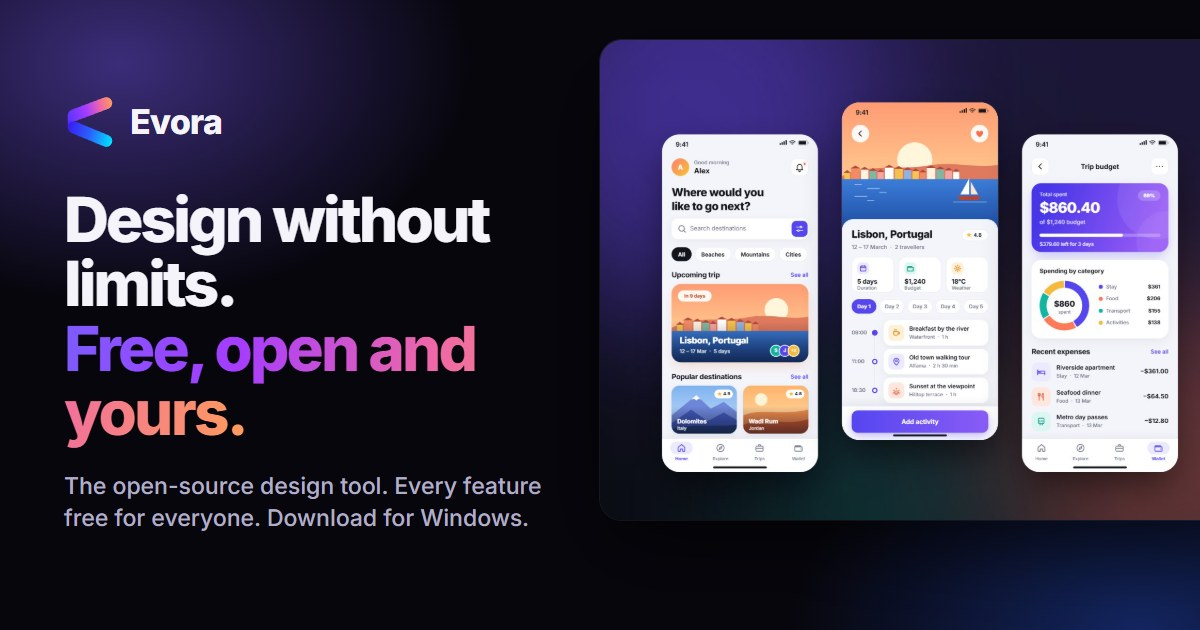
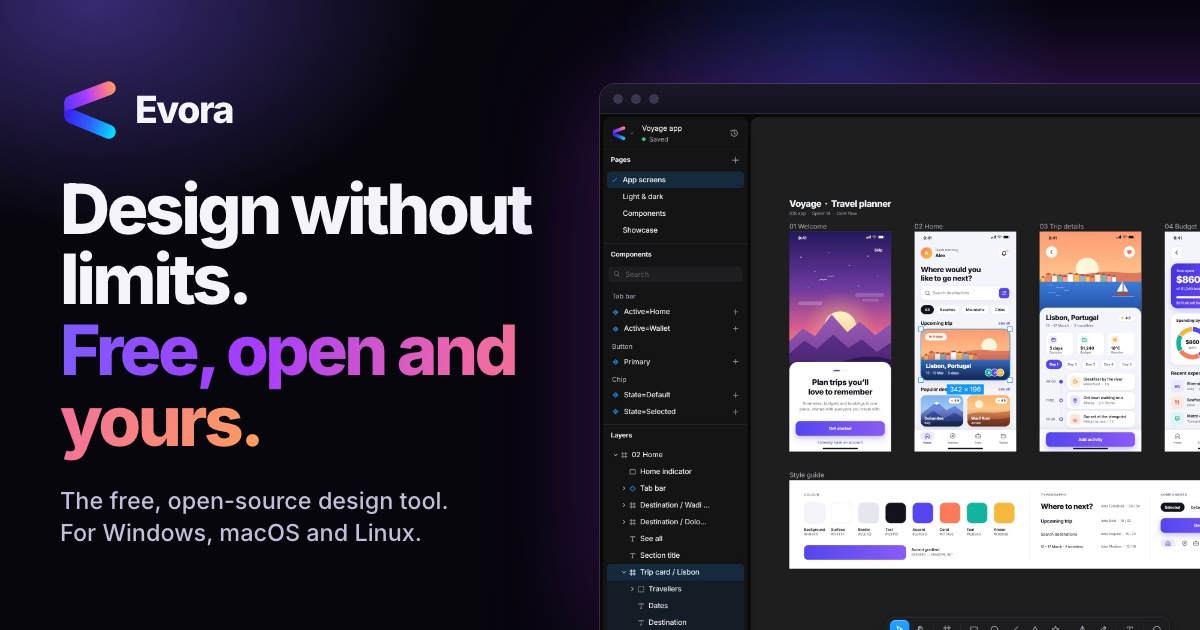
Repository front door: screenshots, contributing guide, code of conduct
- README: the editor screenshot under the title, three feature shots
  above the downloads, and pointers to CONTRIBUTING, good first issues
  and Discussions.
- CONTRIBUTING.md: ways to help, setup, checks and pull request steps.
- CODE_OF_CONDUCT.md: Contributor Covenant 2.0; private reports go
  through the repository's security advisories.
- Issue chooser: questions and ideas go to Discussions.
- Share image: the website's og.jpg named Windows only; it now names
  Windows, macOS and Linux and shows the editor. A 1280x640 copy for
  GitHub's social preview is in .github/social-preview.png.

diff --git a/CODE_OF_CONDUCT.md b/CODE_OF_CONDUCT.md
@@ -1,0 +1,130 @@
+# Contributor Covenant Code of Conduct
+
+## Our Pledge
+
+We as members, contributors, and leaders pledge to make participation in our
+community a harassment-free experience for everyone, regardless of age, body
+size, visible or invisible disability, ethnicity, sex characteristics, gender
+identity and expression, level of experience, education, socio-economic status,
+nationality, personal appearance, race, religion, or sexual identity
+and orientation.
+
+We pledge to act and interact in ways that contribute to an open, welcoming,
+diverse, inclusive, and healthy community.
+
+## Our Standards
+
+Examples of behavior that contributes to a positive environment for our
+community include:
+
+* Demonstrating empathy and kindness toward other people
+* Being respectful of differing opinions, viewpoints, and experiences
+* Giving and gracefully accepting constructive feedback
+* Accepting responsibility and apologizing to those affected by our mistakes,
+  and learning from the experience
+* Focusing on what is best not just for us as individuals, but for the
+  overall community
+
+Examples of unacceptable behavior include:
+
+* The use of sexualized language or imagery, and sexual attention or
+  advances of any kind
+* Trolling, insulting or derogatory comments, and personal or political attacks
+* Public or private harassment
+* Publishing others' private information, such as a physical or email
+  address, without their explicit permission
+* Other conduct which could reasonably be considered inappropriate in a
+  professional setting
+
+## Enforcement Responsibilities
+
+Community leaders are responsible for clarifying and enforcing our standards of
+acceptable behavior and will take appropriate and fair corrective action in
+response to any behavior that they deem inappropriate, threatening, offensive,
+or harmful.
+
+Community leaders have the right and responsibility to remove, edit, or reject
+comments, commits, code, wiki edits, issues, and other contributions that are
+not aligned to this Code of Conduct, and will communicate reasons for moderation
+decisions when appropriate.
+
+## Scope
+
+This Code of Conduct applies within all community spaces, and also applies when
+an individual is officially representing the community in public spaces.
+Examples of representing our community include using an official e-mail address,
+posting via an official social media account, or acting as an appointed
+representative at an online or offline event.
+
+## Enforcement
+
+Instances of abusive, harassing, or otherwise unacceptable behavior may be
+reported to the community leaders responsible for enforcement at
+the project maintainer, [@ShishirShastry](https://github.com/ShishirShastry). To report privately, open
+**Security ▸ Advisories ▸ Report a vulnerability** on this repository and say it is a
+conduct report; only the maintainers can read it.
+All complaints will be reviewed and investigated promptly and fairly.
+
+All community leaders are obligated to respect the privacy and security of the
+reporter of any incident.
+
+## Enforcement Guidelines
+
+Community leaders will follow these Community Impact Guidelines in determining
+the consequences for any action they deem in violation of this Code of Conduct:
+
+### 1. Correction
+
+**Community Impact**: Use of inappropriate language or other behavior deemed
+unprofessional or unwelcome in the community.
+
+**Consequence**: A private, written warning from community leaders, providing
+clarity around the nature of the violation and an explanation of why the
+behavior was inappropriate. A public apology may be requested.
+
+### 2. Warning
+
+**Community Impact**: A violation through a single incident or series
+of actions.
+
+**Consequence**: A warning with consequences for continued behavior. No
+interaction with the people involved, including unsolicited interaction with
+those enforcing the Code of Conduct, for a specified period of time. This
+includes avoiding interactions in community spaces as well as external channels
+like social media. Violating these terms may lead to a temporary or
+permanent ban.
+
+### 3. Temporary Ban
+
+**Community Impact**: A serious violation of community standards, including
+sustained inappropriate behavior.
+
+**Consequence**: A temporary ban from any sort of interaction or public
+communication with the community for a specified period of time. No public or
+private interaction with the people involved, including unsolicited interaction
+with those enforcing the Code of Conduct, is allowed during this period.
+Violating these terms may lead to a permanent ban.
+
+### 4. Permanent Ban
+
+**Community Impact**: Demonstrating a pattern of violation of community
+standards, including sustained inappropriate behavior,  harassment of an
+individual, or aggression toward or disparagement of classes of individuals.
+
+**Consequence**: A permanent ban from any sort of public interaction within
+the community.
+
+## Attribution
+
+This Code of Conduct is adapted from the [Contributor Covenant][homepage],
+version 2.0, available at
+https://www.contributor-covenant.org/version/2/0/code_of_conduct.html.
+
+Community Impact Guidelines were inspired by [Mozilla's code of conduct
+enforcement ladder](https://github.com/mozilla/diversity).
+
+[homepage]: https://www.contributor-covenant.org
+
+For answers to common questions about this code of conduct, see the FAQ at
+https://www.contributor-covenant.org/faq. Translations are available at
+https://www.contributor-covenant.org/translations.

diff --git a/CONTRIBUTING.md b/CONTRIBUTING.md
@@ -1,0 +1,54 @@
+# Contributing to Evora
+
+Thank you for helping. Evora is a free, open-source design tool, and it gets better with every bug report, idea, plugin and pull request.
+
+## Ways to help
+
+- **Try it and tell us what broke.** Open a [bug report](https://github.com/ShishirShastry/evora/issues/new?template=bug_report.yml) with the steps, your system and, if you can, a screenshot.
+- **Ask a question or share an idea** in [Discussions](https://github.com/ShishirShastry/evora/discussions). Feature requests that are ready to be built go in a [feature request](https://github.com/ShishirShastry/evora/issues/new?template=feature_request.yml).
+- **Pick up a starter task.** Issues labelled [good first issue](https://github.com/ShishirShastry/evora/labels/good%20first%20issue) are small and say where to start. Comment on one to say you are taking it.
+- **Write a plugin.** The [plugin guide](plugins/PLUGINS.md) has the API and four examples.
+- **Improve the docs.** The [user guide](docs/user-guide.md), [self-hosting guide](docs/self-hosting.md) and [API reference](docs/api.md) are plain Markdown.
+- **Star the repository.** It helps other people find Evora.
+
+Security problems go privately through [SECURITY.md](SECURITY.md), never in a public issue.
+
+## Set up
+
+You need [Node.js](https://nodejs.org/) 20.19 or later and Git.
+
+```bash
+git clone https://github.com/ShishirShastry/evora.git
+cd evora
+npm install
+npm run dev        # the app in your browser, with hot reload
+npm run desktop    # or the desktop app
+npm run server     # the collaboration server, for working on teamwork features
+```
+
+Where things live is in the README's [project layout](README.md#build-with-us), and how they fit together is in [PROJECT_ARCHITECTURE.md](PROJECT_ARCHITECTURE.md). The file format is described in [DOCUMENT_SCHEMA.md](DOCUMENT_SCHEMA.md).
+
+## Make a change
+
+1. Fork the repository and create a branch from `main`.
+2. Keep the change focused: one fix or feature per pull request.
+3. Add or update tests next to the code you changed (`*.test.ts`, run by Vitest).
+4. Run the checks before you push:
+
+   ```bash
+   npm run check      # TypeScript and the unit tests
+   npm run e2e        # browser tests, for changes to the interface (they use Microsoft Edge)
+   ```
+
+5. Add a line under `## [Unreleased]` in [CHANGELOG.md](CHANGELOG.md) for anything a user would notice.
+6. Open the pull request and fill in its template. Screenshots or a short screen recording help a lot for interface changes.
+
+Write the interface's words the way the rest of Evora does: plain, short and in sentence case, naming things by what people do with them.
+
+## Licence
+
+By contributing you agree that your work is released under the project's [MIT License](LICENSE).
+
+## Code of conduct
+
+Everyone taking part is expected to follow the [code of conduct](CODE_OF_CONDUCT.md). Be kind, assume good intent, and keep discussions about the work.

diff --git a/README.md b/README.md
@@ -26,6 +26,10 @@
   <a href="docs/user-guide.md"><b>User guide</b></a>
 </p>
 
+<p align="center">
+  <a href="https://shishirshastry.github.io/evora/"><img src="website/assets/screenshots/editor.jpg" width="960" alt="The Evora editor with a travel planner app on the canvas, the layers and components panels on the left and the design properties on the right" /></a>
+</p>
+
 ---
 
 Evora is where screens, flows and design systems come to life. Sketch an idea, shape it with real layout and components, click through it as a working prototype, and hand it to developers, alone or with your whole team on the same canvas at once.
@@ -62,6 +66,12 @@ It is **free for everyone, for good**: no plans, no seats to count, no "upgrade 
 **🔌 Extend it.** Install plugins that run safely in a sandbox with only the permissions you grant, drop interactive widgets on the canvas, and browse the community library for templates, UI kits and icon sets.
 
 **📂 Bring your work with you.** Open `.fig` and SVG files as fully editable layers, and save your work as an open `.evora` file.
+
+<p align="center">
+  <img src="website/assets/screenshots/prototype.jpg" width="32%" alt="Evora's prototype view, with Smart Animate connections drawn between four app screens" />
+  <img src="website/assets/screenshots/devmode.jpg" width="32%" alt="Evora's Inspect panel showing colours, effects and CSS for a selected card, with screens marked Ready for dev" />
+  <img src="website/assets/screenshots/variables.jpg" width="32%" alt="The same app screen in light and dark themes, switched with a variable mode in Evora" />
+</p>
 
 ## Get Evora
 
@@ -149,7 +159,9 @@ Evora is young and moving fast. The editor, design systems, prototyping, handoff
 
 ## Build with us
 
-Evora is open source and contributions are welcome: bug reports, ideas, plugins, and code.
+Evora is open source and contributions are welcome: bug reports, ideas, plugins, and code. Start with [CONTRIBUTING.md](CONTRIBUTING.md), pick up a [good first issue](https://github.com/ShishirShastry/evora/labels/good%20first%20issue), or say hello in [Discussions](https://github.com/ShishirShastry/evora/discussions).
+
+If Evora is useful to you, **a star on GitHub helps other people find it.**
 
 - **Write a plugin:** [plugin guide](plugins/PLUGINS.md), with four examples in [plugins/examples](plugins/examples).
 - **Report a security issue:** [SECURITY.md](SECURITY.md).
